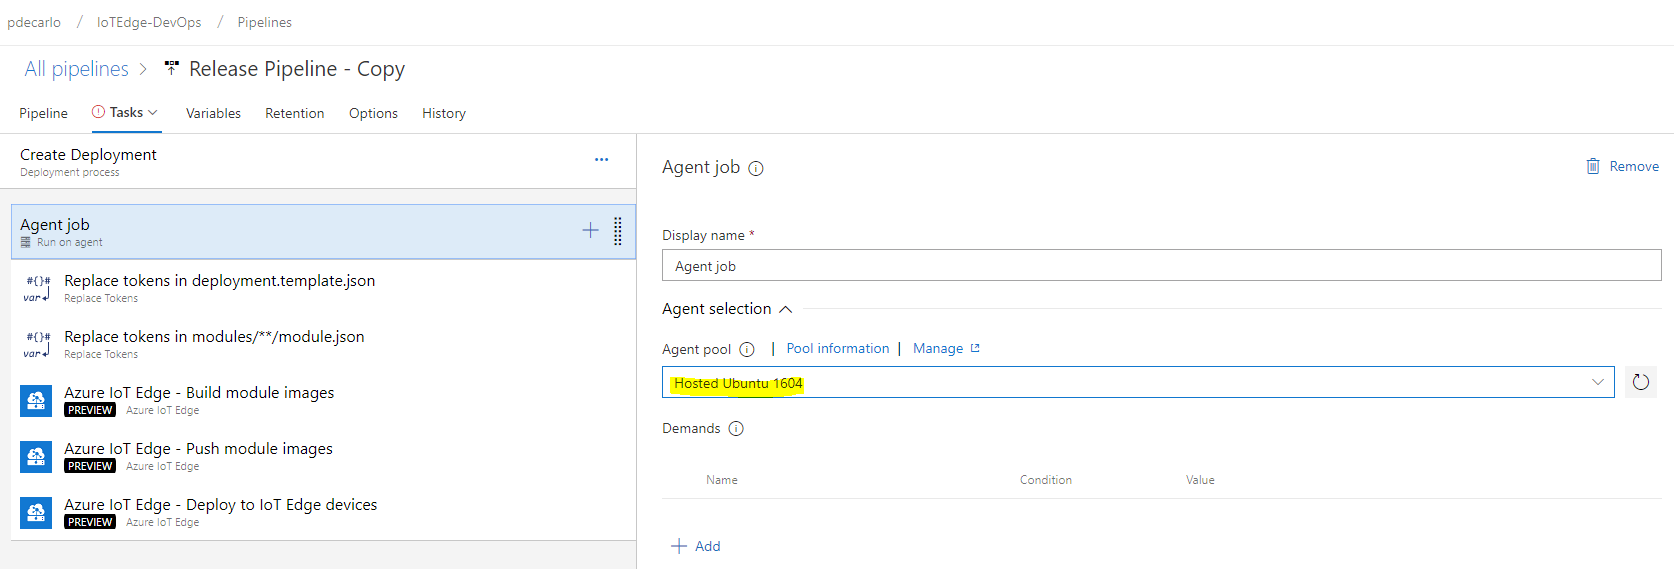
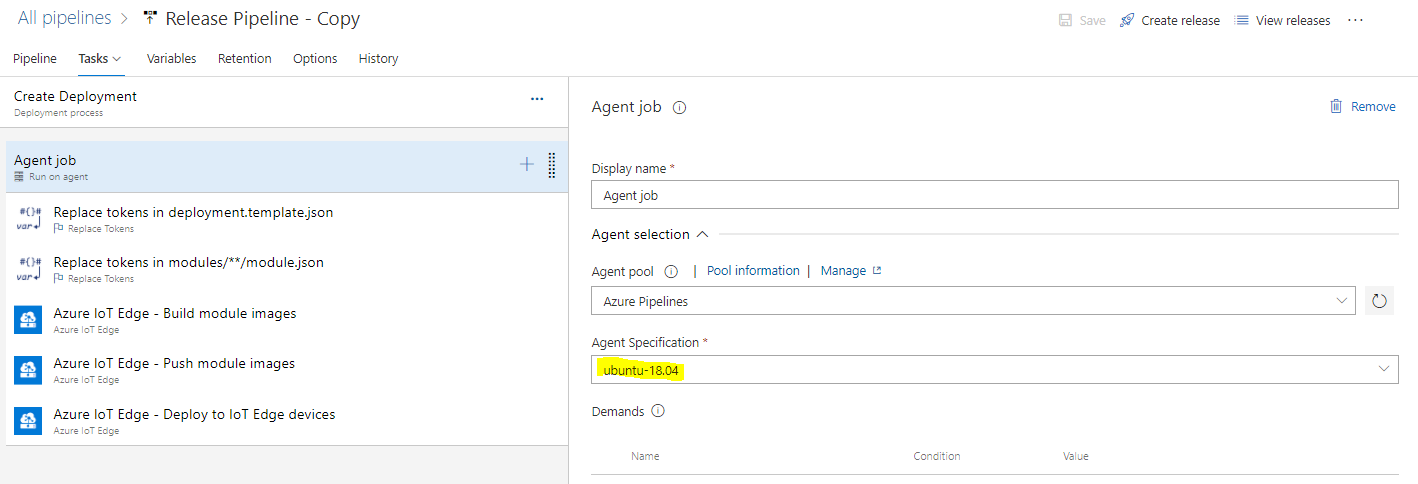
Update README.md

diff --git a/README.md b/README.md
@@ -71,19 +71,15 @@ Add the following comment to the top of the file as shown below:
 
     # This repository is built using Azure DevOps.
 
-![Update Build Definition](/content/UpdateBuildDefVSTS.PNG)
+Commit the changes as shown:
 
-Now select "Build" and you should see that a build has kicked off upon editing the Build Definition:
+![Commit Build Definition](/content/CommitBuildDefVSTS.PNG)
+
+Navigate back to "Repos" and select "Set up build" then select "Run" and you should see that a build has kicked off upon editing the Build Definition:
 
 ![Created Build Definition](/content/BuildDefCreated.PNG)
 
-The build will fail, this is to be expected as Azure DevOps will create the build definition with a name that contains spaces which causes a conflict in the "Azure IoT Edge - Build module images" task.
-
-To fix this, select "Pipelines" => "Builds" then "Rename" the newly created build definition so that it does not contain spaces:
-
-![Edit Build Definition Name](/content/EditBuildName.PNG)
-
-Next, we need to add a few build variables in order for the build to run successfully.  We will need to obtain the hostname of the Azure Container Registry which will be represented by `acr.host`, in addition we will need the Azure Container Registry username which will be represented by `acr.user`, and finally the Azure Container Registry password which will be represented by `acr.password`.  All of these can be obtained in the Azure portal by viewing your created Azure Container Registry and selecting
+The build will fail, this is to be expected as we need to add a few build variables in order for the build to run successfully.  We will need to obtain the hostname of the Azure Container Registry which will be represented by `acr.host`, in addition we will need the Azure Container Registry username which will be represented by `acr.user`, and finally the Azure Container Registry password which will be represented by `acr.password`.  All of these can be obtained in the Azure portal by viewing your created Azure Container Registry and selecting
  "Access Keys" as shown below:
 
 ![Azure Container Registry](/content/ACR.PNG)
@@ -98,7 +94,7 @@ Once you have obtained all of the necessary values, create a build definition va
 
 ![Build Definition Variables](/content/BuildDefVars.PNG)
 
-Finally, select "Save & queue", then click the "Save & queue" button:
+Finally, select the "Run" button and click "Run" in the dialogue as shown below:
 
 ![Queue Build Definition](/content/QueueBuildVSTS.PNG)
 
@@ -146,7 +142,7 @@ Next select Tasks" => "Smoke Test" and supply the appropriate Azure subscription
 
 ![Fix Endpoints 4](/content/FixAzureEndpoints4.PNG)
 
-To fix the Agent Pools, select "Tasks" => "Create Deployment" => "Agent Job" and change the Agent Pool to "Hosted Ubuntu 1604":
+To fix the Agent Pools, select "Tasks" => "Create Deployment" => "Agent Job" and change the Agent Pool to "Azure Pipelines" and set Agent Specification to "ubuntu-18.04":
 
 ![Fix Agent Pool 1](/content/AgentPool1.PNG)
 
@@ -171,21 +167,21 @@ Run `az login` to sign in with the azure cli, then run `az account list` to see 
 
     az account set --subscription <subscriptionid>
 
-Create a Service Principal for your subscription with the azure cli:
+Create a Service Principal for your subscription with the azure cli (it is suggested to use a value of 'IoTEdge-DevOps' or similar for <name>):
 
-    az ad sp create-for-rbac --name <name> --password <password>
+    az ad sp create-for-rbac --name <name>
 
 You should see output similar to:
 
     {
     "appId": "12345678-1234-1234-1234-1234567890ab",
-    "displayName": "azure-iot-edge-device-container-sp",
-    "name": "http://azure-iot-edge-device-container-sp",
+    "displayName": "IoTEdge-DevOps",
+    "name": "http://IoTEdge-DevOps",
     "password": "MyPassword",
     "tenant": "abcdefgh-abcd-abcd-abcd-abcdefghijkl"
     }
 
-Take note of the `name`, `password`, and `tenant` as these values will be used  for `spAppURl`, `spPassword`, and `tenant` respectively. 
+Take note of the `name`, `password`, and `tenant` as these values will be used  for `spAppURl`, `spPassword`, and `tenant` respectively.  Note: that some passwords could be generated with characters that can cause issues when interpreted from the Linux command line. If this is the case, for example if the resulting password contains a "` ! $", then you can either regenerate a new password by re-running the command above or you could try to wrap this value with single quotes i.e. '<password>'. Any failures that may arise in the "Smoke Test" are usually attributed to these values.  
 
 Obtain the following Parameters and supply the appropriate values for the remaining release pipeline variables:
 
@@ -196,7 +192,15 @@ Obtain the following Parameters and supply the appropriate values for the remain
 | tenantId   | The tenant id for the Service Principal | Required |
 | subscriptionId   | The azure subscription id where the IoT Hub is deployed | Required |
 
-To fix the artifact source, select "Pipeline => Add an artifact":
+To test these parameters on a local Docker on Linux instance to rule out any potential issues, you can use the following command:
+
+`
+docker run -d -e spAppUrl=<spAppURl> -e spPassword=<spPassword> -e tenantId=<tenantId> -e subscriptionId=<subscriptionId> -e iothub_name=<iothub_name> -e environment=qa --name qa-test --restart no -v /var/run/docker.sock:/var/run/docker.sock toolboc/azure-iot-edge-device-container
+`
+
+If the container fails to start, there is likely an issue with the parameters provided.  If these fail locally, they will also likely fail in the release build.
+
+Once you have properly set the variables for the Release, we need to fix the artifact source, select "Pipeline => Add an artifact":
 
 ![Add New Artifact](/content/AddNewArtifact.PNG)
 
